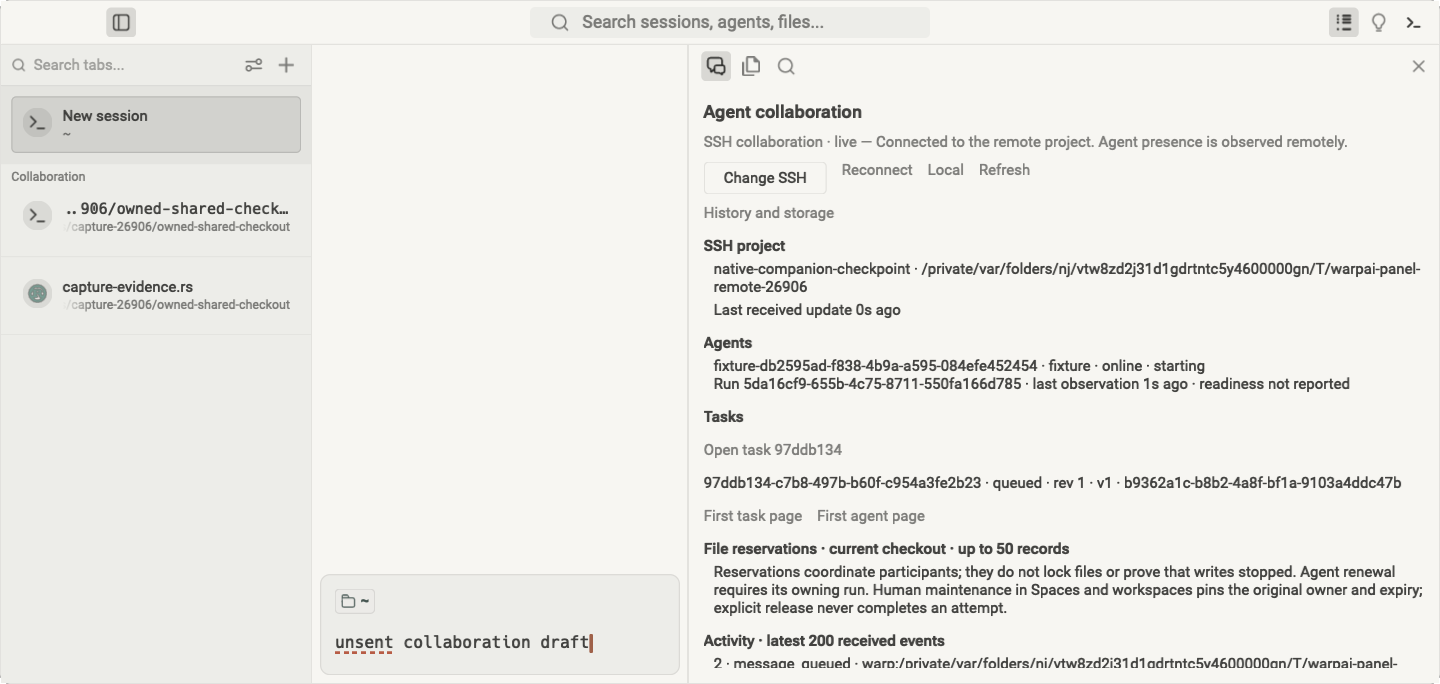
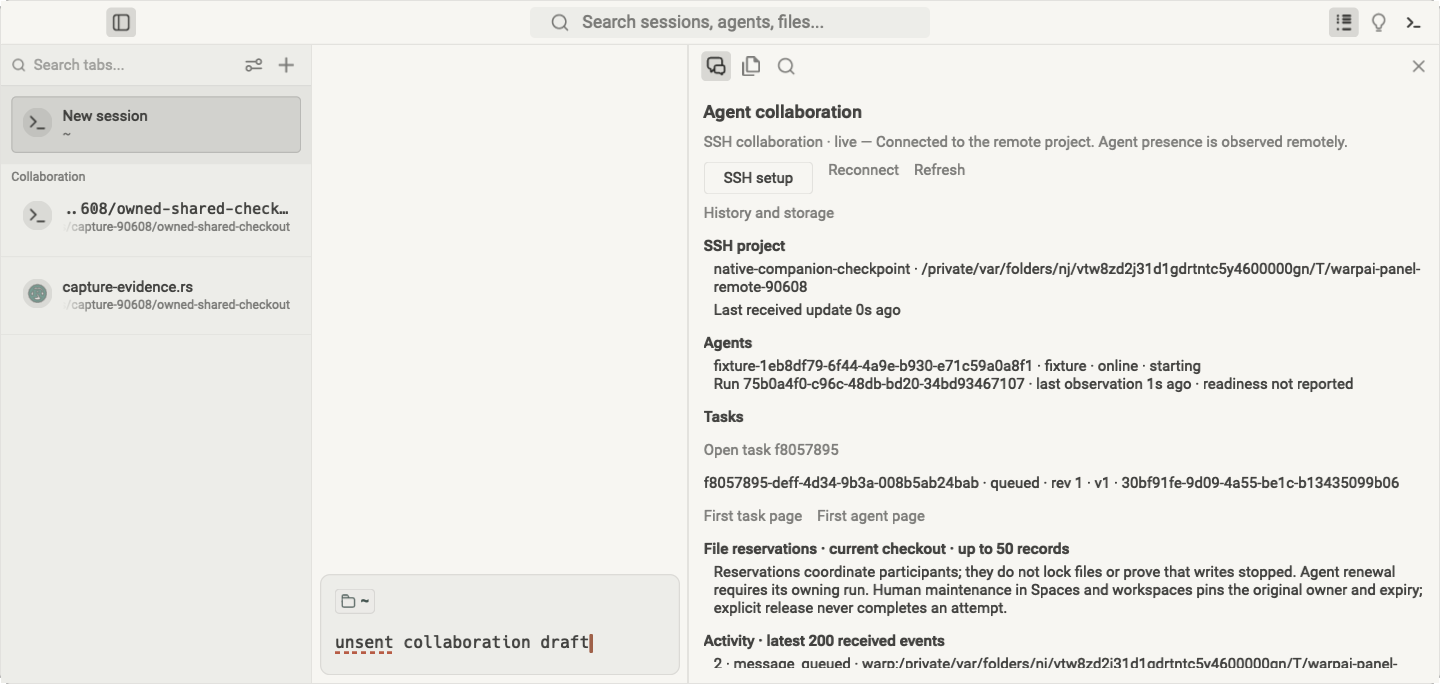
docs: record final 1.1.0 acceptance and refresh native screenshots

diff --git a/specs/agent-communication-v2/UI-CONSISTENCY.md b/specs/agent-communication-v2/UI-CONSISTENCY.md
@@ -164,7 +164,7 @@ state and an OS-specific installation guide. Keep existing Secondary setup and
 Text reconnect actions in the wrapping header. At a verified login prompt, both
 SSH integration entry variants expose an explicit **Integrate PowerShell** action
 on its own row, avoiding narrow-width overlap. Never inject into authentication
-requests or modify user profiles. Source-matched native screenshot QA is pending.
+requests or modify user profiles. Final source-matched native screenshot QA passed; see the receipt below.
 
 The in-block SSH banner reserves height for its second action row in both native
 layout and block height accounting. Capture it on a simulated running command,
@@ -178,3 +178,21 @@ arrows are a connection emblem; preserve the main mark and transparent margin,
 without restoring an outer ring or sparkle. Master artwork is RGBA with native
 ICNS/ICO exports. Inspect small sizes on light/dark
 backgrounds, macOS Finder/DMG and Windows setup metadata/resources before release.
+
+## 1.1.0 final native acceptance
+
+Source `7ebbd3ee45b4652a2e4038f9fb9b16b971ec5fb8` passed
+[run 37349315123](https://github.com/OthinusG/warpai/actions/runs/37349315123).
+Both platforms passed default/platform checks, protocol checks and native actions,
+producing 163 PNGs each with matching source, exit code 0 and no failed steps.
+Downloaded archives passed GitHub SHA-256, ZIP CRC and PNG decoding checks.
+Full application regressions passed at `6ec6755` in
+[run 37340966290](https://github.com/OthinusG/warpai/actions/runs/37340966290);
+only the SSH caption and help link changed in application code afterward.
+
+Reviewed the visible PowerShell button in warm/dark on both desktops, settings
+alignment at 125%, narrow-panel wrapping and macOS vertical-tab live scenes.
+The banner no longer advertises removed cloud features. README images are
+unaltered final-source warm macOS captures; the bilingual provenance ledger
+records their original paths. Installer artwork remains subject to formal
+package inspection before publication.

diff --git a/docs/images/README.md b/docs/images/README.md
@@ -9,10 +9,10 @@ model sessions.
 
 - Tabs: native macOS vertical tab panel enabled.
 - Theme: default **Claude Warm Light**, rendered by the native app.
-- Source: `5d2588a86bbdc05cc994ad816561c4626be9aac4`.
-- [GitHub desktop run 37268540992](https://github.com/OthinusG/warpai/actions/runs/37268540992).
+- Source: `7ebbd3ee45b4652a2e4038f9fb9b16b971ec5fb8`.
+- [GitHub desktop run 37349315123](https://github.com/OthinusG/warpai/actions/runs/37349315123).
 - Artifact: `Warpai-collaboration-native-captures-macOS`.
-- Capture set: `capture-26906/collaboration-static/2026-10-05T06-18-49`.
+- Capture set: `capture-90608/collaboration-static/2026-10-05T18-00-33`.
 
 | Documentation image | Original capture | Shows |
 | --- | --- | --- |
@@ -24,7 +24,7 @@ model sessions.
 Compared the raw captures with [the native UI contract](../../specs/agent-communication-v2/UI-CONSISTENCY.md).
 The earlier `5883221` frames were rejected for faint toolbar icons; the corrected
 source uses full-red opacity masks and native theme colors. The downloaded
-macOS archive passed GitHub SHA-256 and ZIP CRC checks, all 161 PNGs decoded, and
+macOS archive passed GitHub SHA-256 and ZIP CRC checks, all 163 PNGs decoded, and
 its source-matched diagnostic reports exit code 0 with no failed native actions.
 
 | Point | Expected / reviewed result |
@@ -42,3 +42,12 @@ Both documentation PNGs are byte-identical to their original captures at
 These captures include the current branding source. Workspace images do not
 show Dock or installer artwork; those are verified by native packaging checks.
 The capture driver retains 125% UI zoom for these live checkpoints.
+
+Final capture archive SHA-256:
+
[2 lines of base64/hex data omitted]
+
+The Windows archive also passed CRC, decoding of all 163 frames and native
+action diagnostics. Warm/dark PowerShell banners and 125% settings were reviewed
+on both platforms before the release tag was created.

diff --git a/docs/images/README.zh-CN.md b/docs/images/README.zh-CN.md
@@ -7,10 +7,10 @@
 
 - 标签页：启用 macOS 原生垂直标签页面板。
 - 主题：默认的 **Claude Warm Light**，由原生应用直接渲染。
-- 源码版本：`5d2588a86bbdc05cc994ad816561c4626be9aac4`。
-- [GitHub 桌面验证记录 37268540992](https://github.com/OthinusG/warpai/actions/runs/37268540992)。
+- 源码版本：`7ebbd3ee45b4652a2e4038f9fb9b16b971ec5fb8`。
+- [GitHub 桌面验证记录 37349315123](https://github.com/OthinusG/warpai/actions/runs/37349315123)。
 - 产物名称：`Warpai-collaboration-native-captures-macOS`。
-- 截图目录：`capture-26906/collaboration-static/2026-10-05T06-18-49`。
+- 截图目录：`capture-90608/collaboration-static/2026-10-05T18-00-33`。
 
 | 文档图片 | 原始截图 | 内容 |
 | --- | --- | --- |
@@ -21,7 +21,7 @@
 
 已对照[原生 UI 规范（英文）](../../specs/agent-communication-v2/UI-CONSISTENCY.md)检查原始截图。
 早先的 `5883221` 截图因工具栏图标过淡而未采用；修正后的源码使用完整红色通道作为透明度遮罩，显示颜色仍由原生主题控制。
-下载的 macOS 截图包通过 GitHub SHA-256 和 ZIP CRC 校验，161 张 PNG 均可解码；
+下载的 macOS 截图包通过 GitHub SHA-256 和 ZIP CRC 校验，163 张 PNG 均可解码；
 诊断中的源码版本匹配、退出码为 0，原生操作断言没有失败。
 
 | 检查项 | 预期与检查结果 |
@@ -38,3 +38,11 @@
 
 这些截图来自当前图标修改后的源码。工作空间截图不展示 Dock 或安装器图标；
 相关资源通过原生打包检查验证。截图驱动在这两个实时场景中保留 125% UI 缩放。
+
+最终截图包 SHA-256：
+
[2 lines of base64/hex data omitted]
+
+Windows 截图包也已通过 CRC、163 张图片解码和原生操作断言检查。
+两端暖色、深色 PowerShell 横幅及 125% 设置页均在创建发布标签前完成视觉检查。

diff --git a/specs/agent-communication-v2/INSTALLATION.md b/specs/agent-communication-v2/INSTALLATION.md
@@ -66,12 +66,15 @@ than assuming the POSIX shell wrapper handles it.
 
 ## Verification status
 
-Source `770741b` passed desktop application regressions in run 37320844750 and
-three-platform installer/transport checks in run 37320176774. Visual review
-rejected the two new PowerShell frames: an idle block did not render the banner.
-Capture a simulated running command without executing SSH and assert banner
-ownership/draft preservation. Reserve native banner height for its second action
-row, then rerun desktop/native acceptance before tagging or publishing.
+Full macOS/Windows application regressions passed at source `6ec6755` in
+[run 37340966290](https://github.com/OthinusG/warpai/actions/runs/37340966290).
+Final source `7ebbd3e` changes only the SSH guidance caption and documentation
+link. Three-platform installer/transport checks passed in
+[run 37348866696](https://github.com/OthinusG/warpai/actions/runs/37348866696).
+Final native screenshot review is recorded in the UI contract and screenshot
+provenance ledger. The previously rejected `770741b` PowerShell frames were
+corrected by simulating a running echoed command and reserving banner height;
+the capture never executes SSH.
 
 The owner changed the release scope
 while 1.0.1 Windows packaging was running; cancel that publication and preserve the

diff --git a/MEMORY.md b/MEMORY.md
@@ -1143,3 +1143,11 @@ R2.6 fresh remote MCP and R2.7 local pending-intent projections remain pending.
   claim and upstream SSH guide in the shared banner; remove that text/link, then
   capture final wording with native checks. Existing control/launch logic remains
   unchanged; macOS full regressions are still pending.
+
+- 1.1.0 full macOS/Windows regressions passed in run 37340966290 (6ec6755).
+  Final 7ebbd3e native run 37349315123 passed both platforms; only SSH caption
+  and help-link strings changed after full regressions. Both archives contain
+  163 decoded source-matched PNGs and successful action diagnostics. README
+  uses byte-identical Claude Warm Light macOS vertical-tab frames. Three-OS
+  installer/transport gate 37348866696 passed; formal tagged package inspection
+  and public release remain the delivery gates.

diff --git a/specs/agent-communication-v2/QUALITY.md b/specs/agent-communication-v2/QUALITY.md
@@ -119,3 +119,13 @@ installation on physical desktops.
 
 Status: replacement, cleanup, final functional/native UI acceptance, artifact
 inspection and default-branch/branch cleanup complete.
+
+## 1.1.0 delivery acceptance
+
+Full desktop application regressions passed at `6ec6755` in run 37340966290.
+Final `7ebbd3e` passed both native desktop suites in run 37349315123 and
+three-platform remote install/transport checks in run 37348866696.
+The final application delta consists of SSH guidance caption/help-link changes.
+See UI-CONSISTENCY.md and docs/images/README.md for raw screenshot review and
+provenance. Formal tagged installers must pass package inspection before the
+private draft is published.
